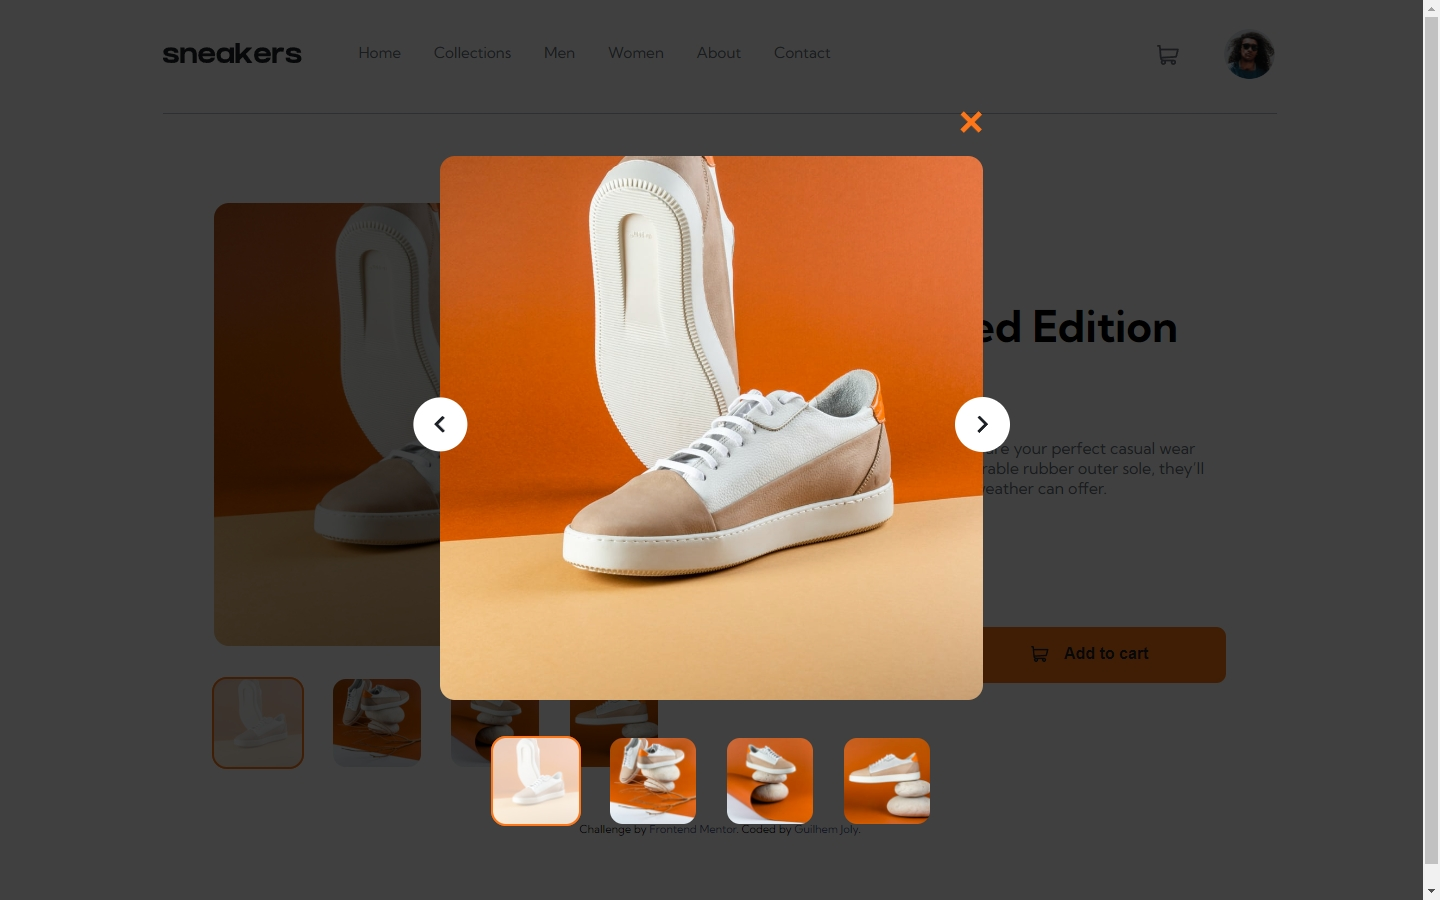
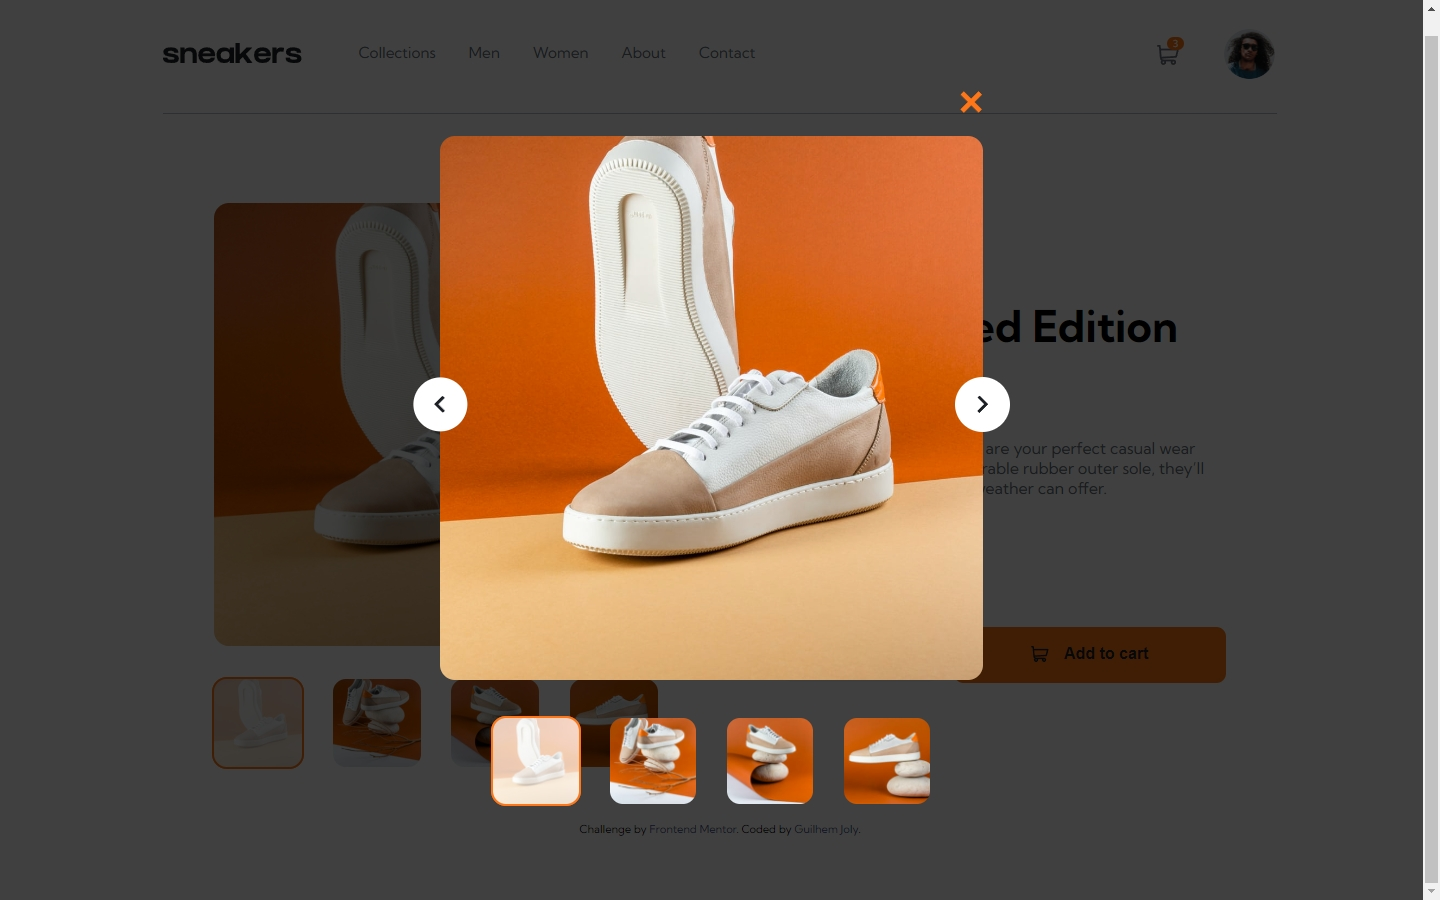
update nav and final screenshots

diff --git a/src/datas/navLinkDatas.ts b/src/datas/navLinkDatas.ts
@@ -1,38 +1,32 @@
 import Product from '@components/Pages/Product';
 
 export const navLinkDatas = [
-    {
+  {
         id: 1,
-        title: "Home",
-        link: "/", 
-        element: Product, // Product is a placeholder, change it to the Home component.
-    },
-    {
-        id: 2,
         title: "Collections",
-        link: "/collections",
+        link: "/",
         element: Product, // Product is a placeholder, change it to the Collections component.
     },
     { 
-        id: 3,
+        id: 2,
         title: "Men",
         link: "/men",
         element: Product, // Product is a placeholder, change it to the Men component.
     },
     {   
-        id: 4,
+        id: 3,
         title: "Women",
         link: "/women",
         element: Product, // Product is a placeholder, change it to the Women component.
     },
     {  
-        id: 5,
+        id: 4,
         title: "About",
         link: "/about",
         element: Product, // Product is a placeholder, change it to the About component.
     },
     {  
-        id: 6,
+        id: 5,
         title: "Contact",
         link: "/contact",
         element: Product, // Product is a placeholder, change it to the Contact component.
